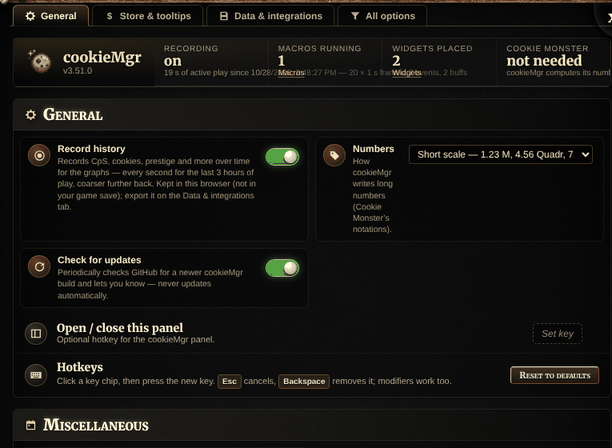
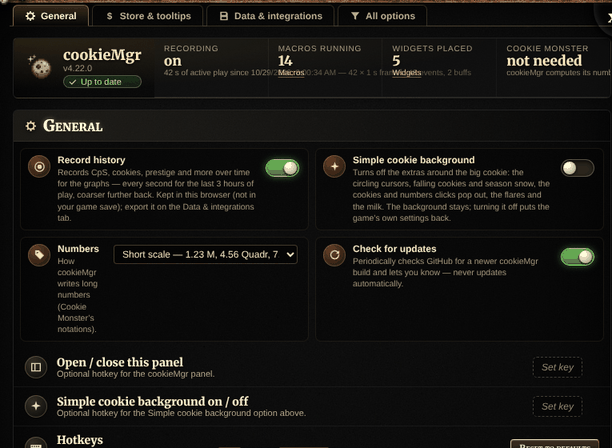
README: current Settings picture
Claude-Session: https://claude.ai/code/session_01ALSqfrVYPdvMWWjAoC9JVy

diff --git a/changes/readme-settings-picture.md b/changes/readme-settings-picture.md
@@ -1,0 +1,4 @@
+---
+bump: patch
+---
+- **README:** the Settings picture shows the Up to date badge and the Simple cookie background option.
